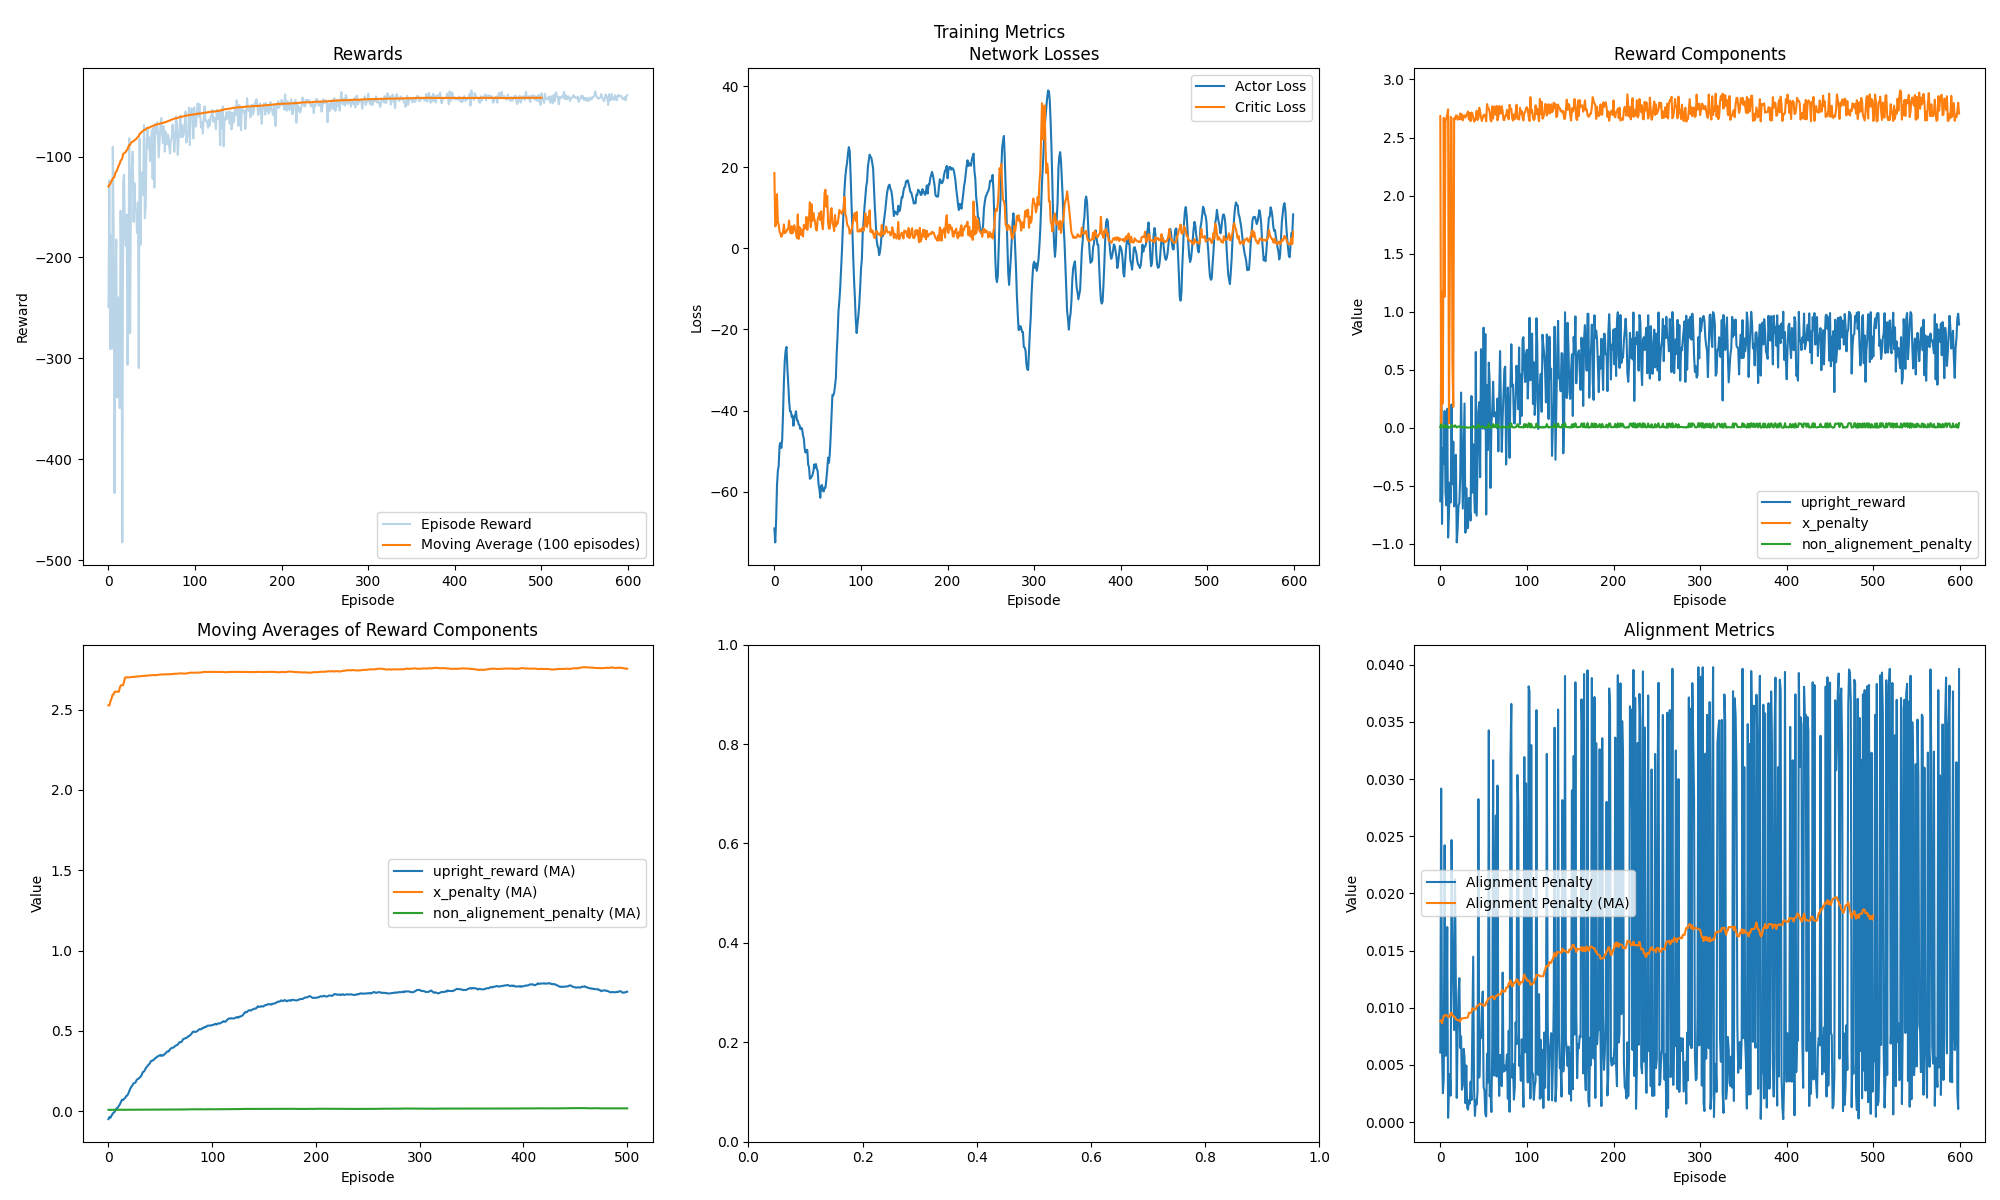
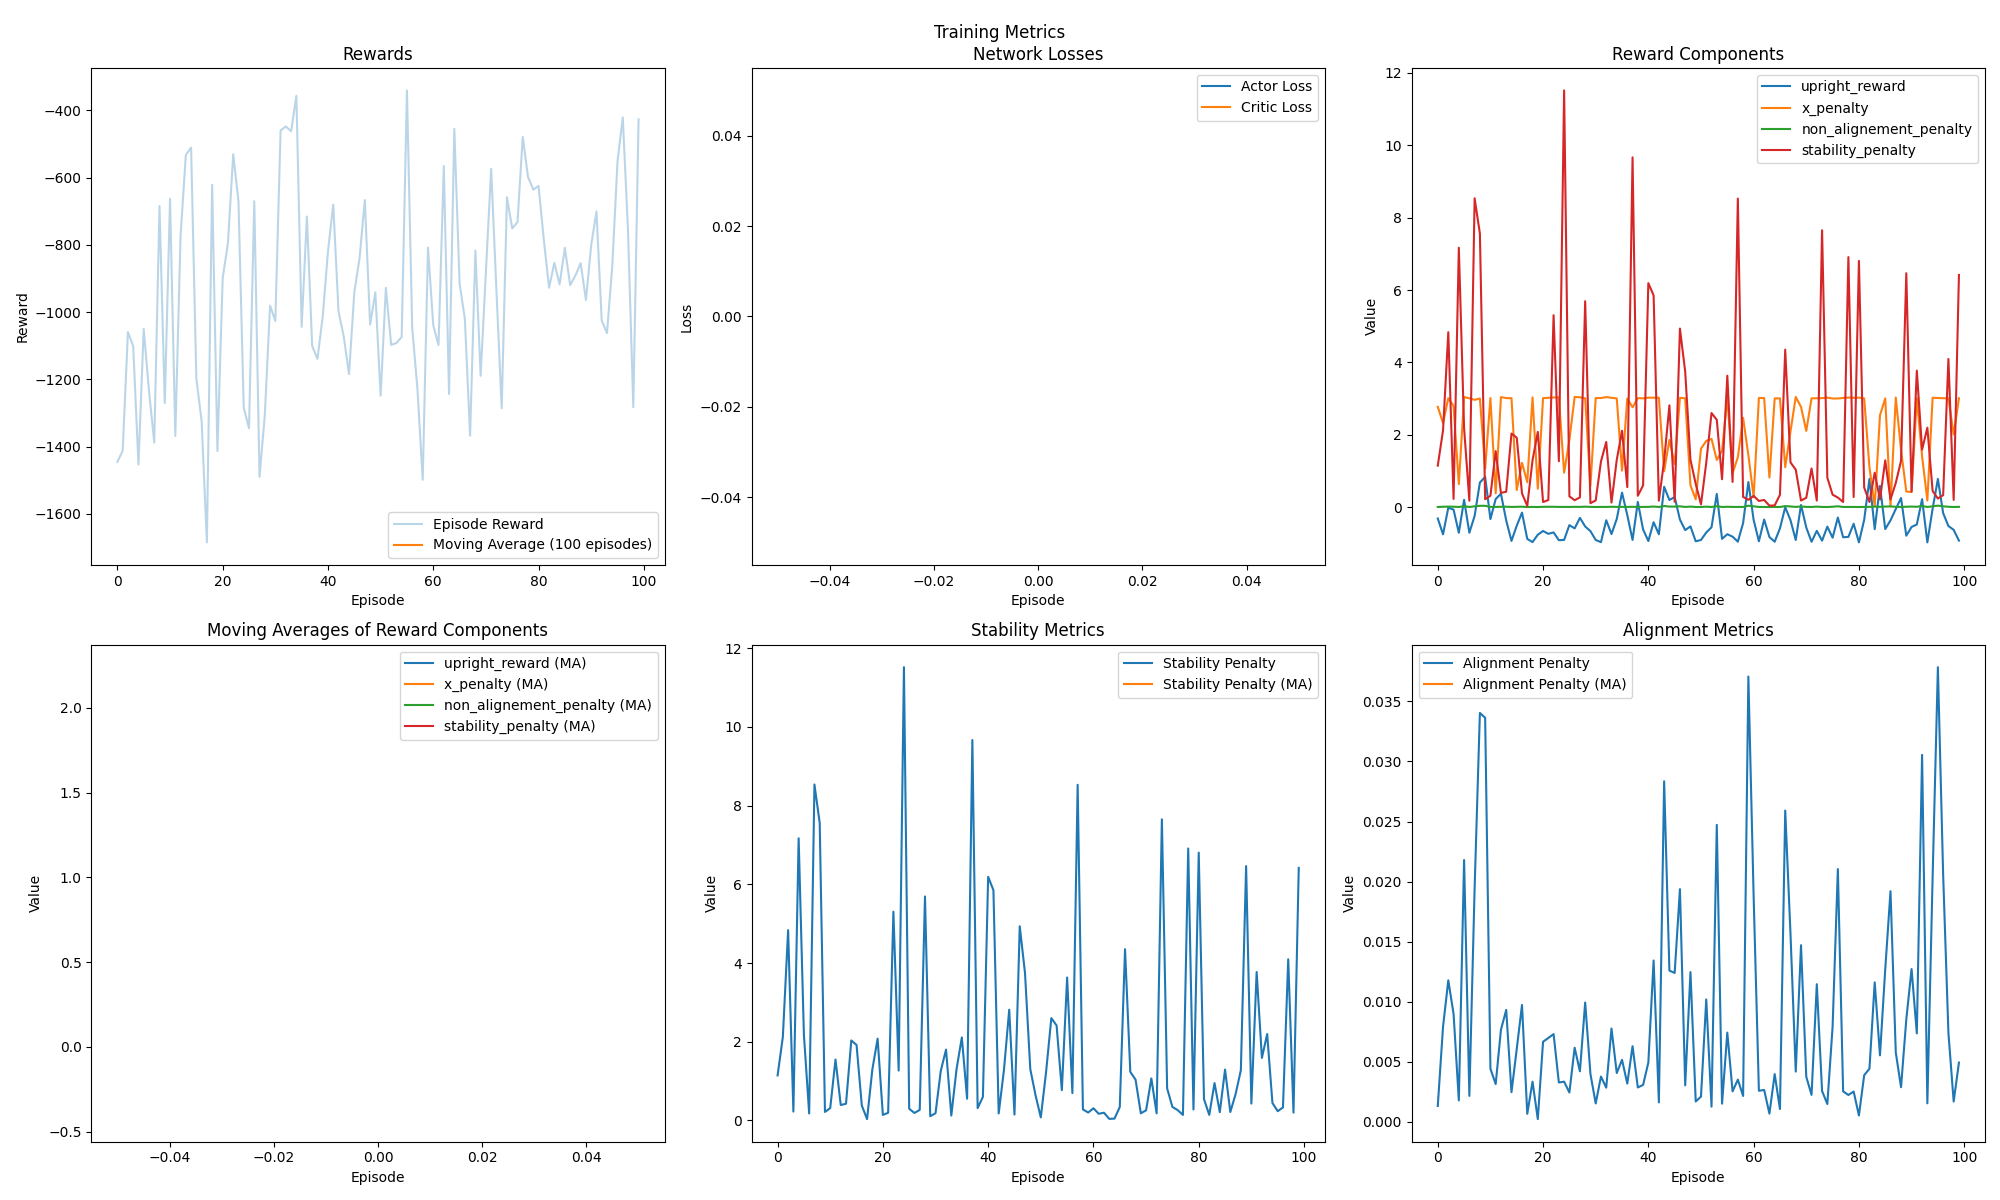
Enhance .gitignore to include additional model files, logs, and environment variables. Refactor TriplePendulum environment to improve state handling with NaN checks, update reward calculation to include stability penalties, and adjust manual run script to print state. Update metrics tracking to visu

diff --git a/env.py b/env.py
@@ -317,42 +317,43 @@ class TriplePendulumEnv(gym.Env):
                 p1_x, p1_y, p2_x, p2_y, p3_x, p3_y,  # Pendulum positions
                 v1_x, v1_y, v2_x, v2_y, v3_x, v3_y  # Pendulum velocities
             ], dtype=np.float32)
+
+            # Check for NaN values in state
+            if np.isnan(np.sum(self.state)):
+                print('state:', self.state)
+                raise ValueError("Warning: NaN detected in state")
         
         # Check if cart position exceeds threshold and clip it instead of terminating
         x_new, x_dot_new = self.state[0], self.state[1]
         
-        # Clip cart position if it exceeds threshold
-        if abs(x_new) > self.x_threshold:
-            # Update x_new to be clipped at threshold
-            x_new = np.clip(x_new, -self.x_threshold, self.x_threshold)
-            
-            # Set velocity to zero at the boundary to prevent bouncing
-            if (x_new == self.x_threshold and x_dot_new > 0) or (x_new == -self.x_threshold and x_dot_new < 0):
-                x_dot_new = 0
-            
-            # Update the state with clipped position and adjusted velocity
-            self.state[0] = x_new
-            self.state[1] = x_dot_new
-            
-            # Recalculate pendulum positions with the new cart position
-            p1_x = x_new + self.length * np.sin(self.state[3])
-            p1_y = -self.length * np.cos(self.state[3])
-            p2_x = p1_x + self.length * np.sin(self.state[6])
-            p2_y = p1_y + self.length * np.cos(self.state[6])
-            p3_x = p2_x + self.length * np.sin(self.state[9])
-            p3_y = p2_y + self.length * np.cos(self.state[9])
-            
-            # Update pendulum positions in the state
-            self.state[12:18] = np.array([p1_x, p1_y, p2_x, p2_y, p3_x, p3_y])
+        # Update x_new to be clipped at threshold
+        x_new = np.clip(x_new, -self.x_threshold, self.x_threshold)
+        
+        # Set velocity to zero at the boundary to prevent bouncing
+        if (x_new == self.x_threshold and x_dot_new > 0) or (x_new == -self.x_threshold and x_dot_new < 0):
+            x_dot_new = 0
+        
+        # Update the state with clipped position and adjusted velocity
+        self.state[0] = x_new
+        self.state[1] = x_dot_new
+        
+        # Recalculate pendulum positions with the new cart position
+        p1_x = x_new + self.length * np.sin(self.state[3])
+        p1_y = -self.length * np.cos(self.state[3])
+        p2_x = p1_x + self.length * np.sin(self.state[6])
+        p2_y = p1_y + self.length * np.cos(self.state[6])
+        p3_x = p2_x + self.length * np.sin(self.state[9])
+        p3_y = p2_y + self.length * np.cos(self.state[9])
+        
+        # Update pendulum positions in the state
+        self.state[12:18] = np.array([p1_x, p1_y, p2_x, p2_y, p3_x, p3_y])
         
         # Only terminate if velocity exceeds threshold
         terminated = bool(abs(x_dot_new) > self.x_dot_threshold or abs(x_new) >= 3)
-        
-        # Calculate the reward
-        reward = self.calculate_reward()
+
         
         # Return observation, reward, terminated, and info dictionary
-        return np.array(self.state, dtype=np.float32), reward, terminated, {}
+        return np.array(self.state, dtype=np.float32), terminated
 
     def calculate_reward(self):
         """Calculate the reward based on the current state"""
@@ -587,6 +588,10 @@ class TriplePendulumEnv(gym.Env):
                 {"name": "Position", "value": self.reward_components.get('x_penalty', 0), "color": (200, 80, 80)},
                 {"name": "Alignment", "value": self.reward_components.get('non_alignement_penalty', 0), "color": (180, 130, 80)}
             ]
+            
+            # Add stability penalty if it exists
+            if 'stability_penalty' in self.reward_components:
+                reward_components.append({"name": "Stability", "value": self.reward_components.get('stability_penalty', 0), "color": (150, 80, 150)})
             
             # Add velocity penalty if it exists
             if 'x_dot_penalty' in self.reward_components:

diff --git a/reward.py b/reward.py
@@ -2,12 +2,14 @@ import numpy as np
 import random as rd
 class RewardManager:
     def __init__(self):
-        self.cart_position_weight = 3
+        self.cart_position_weight = 1
         self.termination_penalty = 10.0
         self.alignement_weight = 0.01
         self.upright_weight = 1.0
+        self.stability_weight = 0.02  # Weight for the stability reward
+        self.old_state = None
 
-    def calculate_reward(self, state, terminated):
+    def calculate_reward(self, state, terminated, current_step):
         """
         Calculate the reward based on the current state and termination status.
         
@@ -30,8 +32,10 @@ class RewardManager:
         p1_x, p1_y, p2_x, p2_y, p3_x, p3_y = state[12:18]  # Pendulum positions
         v1_x, v1_y, v2_x, v2_y, v3_x, v3_y = state[18:24]  # Pendulum velocities
         
+        self.old_state = state
+        
         # x close to 0
-        x_penalty = self.cart_position_weight * (abs(x) / 3.2) ** 2
+        x_penalty = self.cart_position_weight * (abs(x))
 
         # angles alignement 
         non_alignement_penalty = self.alignement_weight * (abs(th1-th2) + abs(th2-th3) + abs(th3-th1)) / np.pi
@@ -39,20 +43,26 @@ class RewardManager:
         # Uprightness of each node
         upright_reward = self.upright_weight * (np.cos(th1 - np.pi) + np.cos(th2 - np.pi) + np.cos(th3 - np.pi)) / 3.0
 
+        # Stability reward: penalize high angular velocities and accelerations
+        angular_velocity_penalty = (th1_dot**2 + th2_dot**2 + th3_dot**2) / 3.0
+        angular_accel_penalty = (th1_ddot**2 + th2_ddot**2 + th3_ddot**2) / 3.0
+        stability_penalty = self.stability_weight * (angular_velocity_penalty + angular_accel_penalty)
+
         # Penalties are negative, rewards are positive
-        reward = upright_reward - x_penalty - non_alignement_penalty
+        reward = upright_reward - x_penalty - non_alignement_penalty - stability_penalty
         
         # Apply termination penalty
         if terminated:
             reward -= self.termination_penalty
             
-        return reward, upright_reward, x_penalty, non_alignement_penalty
+        return reward, upright_reward, x_penalty, non_alignement_penalty, stability_penalty
 
-    def get_reward_components(self, state):
-        reward, upright_reward, x_penalty, non_alignement_penalty = self.calculate_reward(state, False)
+    def get_reward_components(self, state, current_step):
+        reward, upright_reward, x_penalty, non_alignement_penalty, stability_penalty = self.calculate_reward(state, False, current_step)
         return {
             'x_penalty': x_penalty,
             'non_alignement_penalty': non_alignement_penalty,
             'upright_reward': upright_reward,
+            'stability_penalty': stability_penalty,
             'reward': reward
         } 

diff --git a/train.py b/train.py
@@ -107,7 +107,7 @@ class TriplePendulumTrainer:
             scaled_action = np.array([action * self.env.force_mag])
             
             # Take step in environment
-            next_state, reward, terminated, info = self.env.step(scaled_action)
+            next_state, terminated = self.env.step(scaled_action)
             
             # Render if rendering is enabled
             if self.env.render_mode == "human":
@@ -117,8 +117,8 @@ class TriplePendulumTrainer:
                     self.env.clock.tick(60)
             
             # Calculate custom reward and components
-            custom_reward, upright_reward, x_penalty, non_alignement_penalty = self.reward_manager.calculate_reward(next_state, terminated)
-            reward_components = self.reward_manager.get_reward_components(next_state)
+            custom_reward, upright_reward, x_penalty, non_alignement_penalty, stability_penalty = self.reward_manager.calculate_reward(next_state, terminated, num_steps)
+            reward_components = self.reward_manager.get_reward_components(next_state, num_steps)
             
             # Normalize reward
             normalized_reward = self.normalize_reward(custom_reward)
@@ -252,7 +252,7 @@ class TriplePendulumTrainer:
 
 if __name__ == "__main__":
     config = {
-        'num_episodes': 2000,
+        'num_episodes': 10000,
         'actor_lr': 3e-4,
         'critic_lr': 3e-4,
         'gamma': 1.01,

diff --git a/metrics.py b/metrics.py
@@ -43,7 +43,7 @@ class MetricsTracker:
         # Plot reward components
         ax = axes[0, 2]
         reward_components = ['upright_reward', 'x_penalty', 
-                           'non_alignement_penalty']
+                           'non_alignement_penalty', 'stability_penalty']
         for component in reward_components:
             if component in self.metrics:
                 ax.plot(self.metrics[component], label=component)
@@ -61,6 +61,19 @@ class MetricsTracker:
                                        mode='valid')
                 ax.plot(moving_avg, label=f'{component} (MA)')
         ax.set_title('Moving Averages of Reward Components')
+        ax.set_xlabel('Episode')
+        ax.set_ylabel('Value')
+        ax.legend()
+        
+        # Plot stability metrics
+        ax = axes[1, 1]
+        if 'stability_penalty' in self.metrics:
+            ax.plot(self.metrics['stability_penalty'], label='Stability Penalty')
+            moving_avg = np.convolve(self.metrics['stability_penalty'], 
+                                   np.ones(self.episode_window)/self.episode_window, 
+                                   mode='valid')
+            ax.plot(moving_avg, label='Stability Penalty (MA)')
+        ax.set_title('Stability Metrics')
         ax.set_xlabel('Episode')
         ax.set_ylabel('Value')
         ax.legend()

diff --git a/manual_run.py b/manual_run.py
@@ -73,12 +73,14 @@ while True:
             elif event.key == pygame.K_t:
                 strong_braking = not strong_braking
                 print(f"Auto-braking on direction change: {'ON' if strong_braking else 'OFF'}")
+            elif event.key == pygame.K_s: # print state
+                print(env.state)
     
     obs, terminated = env.step(action)
     
     # Calculate and display reward
-    reward, upright_reward, x_penalty, non_alignement_penalty = reward_manager.calculate_reward(obs, terminated)
-    reward_components = reward_manager.get_reward_components(obs)
+    reward, upright_reward, x_penalty, non_alignement_penalty, stability_penalty = reward_manager.calculate_reward(obs, terminated, 0)
+    reward_components = reward_manager.get_reward_components(obs, 0)
     
     # Update the environment's display with reward information
     env.current_reward = reward
